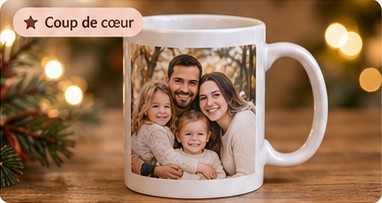
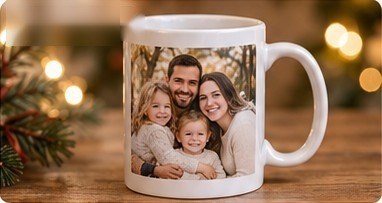
Boutique : aperçu réaliste sur de vraies photos de produits
Claude-Session: https://claude.ai/code/session_01Rh5XKVHsHEJX8tgAbBS3Nk

Changed region(s): [[0.0, 0.0, 0.3743, 0.2365]]

diff --git a/boutique/index.html b/boutique/index.html
@@ -22,13 +22,13 @@
 <link rel="preconnect" href="https://fonts.googleapis.com">
 <link rel="preconnect" href="https://fonts.gstatic.com" crossorigin>
 <link href="https://fonts.googleapis.com/css2?family=Great+Vibes&family=Sacramento&family=Cormorant+Garamond:ital,wght@0,500;0,600;1,500&family=Nunito:wght@400;600;700;800&display=swap" rel="stylesheet">
-<link rel="stylesheet" href="../style.css?v=1795450573">
+<link rel="stylesheet" href="../style.css?v=1795450859">
 </head>
 <body class="avec-barre">
 <a href="#contenu" class="sr-only">Aller au contenu</a>
 <header class="entete">
   <div class="barre">
-    <a href="../" class="logo"><img src="../images/logo-norelias.jpg?v=1795450573" alt="Norélias Photography" width="410" height="262"></a>
+    <a href="../" class="logo"><img src="../images/logo-norelias.jpg?v=1795450859" alt="Norélias Photography" width="410" height="262"></a>
     <nav class="nav" aria-label="Menu principal"><ul class="menu"><li><a href="../">Accueil</a></li><li><a href="../a-propos/">À propos</a></li><li><a href="../prestations/">Prestations</a></li><li><a href="../portfolio/">Portfolio</a></li><li><a href="../tarifs/">Tarifs</a></li><li><a href="../boutique/" aria-current="page">Boutique</a></li><li><a href="../reservation/">Réservation</a></li></ul></nav>
     <div class="reseaux"><a href="https://www.facebook.com/people/Norelia-Photography/61596525041862/" target="_blank" rel="noopener me" aria-label="Facebook de Norélias Photography"><svg viewBox="0 0 24 24" fill="currentColor" aria-hidden="true"><path d="M12 2a10 10 0 0 0-1.6 19.9v-7H7.9V12h2.5V9.8c0-2.5 1.5-3.9 3.8-3.9 1.1 0 2.2.2 2.2.2v2.5h-1.3c-1.2 0-1.6.8-1.6 1.6V12h2.8l-.4 2.9h-2.4v7A10 10 0 0 0 12 2z"/></svg></a><a href="https://www.instagram.com/norelias_photography/" target="_blank" rel="noopener me" aria-label="Instagram de Norélias Photography"><svg viewBox="0 0 24 24" fill="none" stroke="currentColor" stroke-width="2.2" aria-hidden="true"><rect x="3" y="3" width="18" height="18" rx="5"/><circle cx="12" cy="12" r="4"/><circle cx="17.5" cy="6.5" r="1.2" fill="currentColor" stroke="none"/></svg></a><a href="https://www.tiktok.com/" aria-label="TikTok"><svg viewBox="0 0 24 24" fill="currentColor" aria-hidden="true"><path d="M16.6 5.8A4.3 4.3 0 0 1 15.5 3h-3.1v12.4a2.6 2.6 0 1 1-1.8-2.5V9.7a5.7 5.7 0 1 0 4.9 5.7V9a7.3 7.3 0 0 0 4.3 1.4V7.3a4.3 4.3 0 0 1-3.2-1.5z"/></svg></a></div>
     <button class="burger" aria-label="Ouvrir le menu" aria-expanded="false"><svg viewBox="0 0 24 24" fill="none" stroke="currentColor" stroke-width="2"><path d="M3 6h18M3 12h18M3 18h18"/></svg></button>
@@ -36,11 +36,11 @@
 </header>
 <main id="contenu">
 <section class="page"><div class="interieur">
-<div class="hero-boutique" style="--fond:url('../images/boutique-hero.jpg?v=1795450573')"><div class="hero-txt"><h1>Boutique personnalisée <span class="coeur"><svg viewBox="190 172 30 34" fill="none" stroke="currentColor" stroke-width="1.3" stroke-linecap="round" stroke-linejoin="round" aria-hidden="true"><path d="M203.6 186.2C201.2 179 196 174.6 193.4 177.6C190.6 181.4 194.5 189.5 202 203.8C206.5 195.5 216.6 186.8 216.8 179C216.9 174.4 209.6 173.6 203.6 186.2"/></svg></span></h1><p>Transformez vos plus beaux souvenirs en objets uniques et durables.</p><ul><li>Personnalisation simple et rapide</li><li>Aperçu avant de commander</li><li>Paiement sécurisé</li><li>Livraison à domicile par la poste</li></ul></div></div>
+<div class="hero-boutique" style="--fond:url('../images/boutique-hero.jpg?v=1795450859')"><div class="hero-txt"><h1>Boutique personnalisée <span class="coeur"><svg viewBox="190 172 30 34" fill="none" stroke="currentColor" stroke-width="1.3" stroke-linecap="round" stroke-linejoin="round" aria-hidden="true"><path d="M203.6 186.2C201.2 179 196 174.6 193.4 177.6C190.6 181.4 194.5 189.5 202 203.8C206.5 195.5 216.6 186.8 216.8 179C216.9 174.4 209.6 173.6 203.6 186.2"/></svg></span></h1><p>Transformez vos plus beaux souvenirs en objets uniques et durables.</p><ul><li>Personnalisation simple et rapide</li><li>Aperçu avant de commander</li><li>Paiement sécurisé</li><li>Livraison à domicile par la poste</li></ul></div></div>
 <div id="msg-boutique" class="msg-boutique" hidden></div>
 <div class="comment-ca"><strong>Comment ça fonctionne ?</strong><ol><li><i><svg viewBox="0 0 24 24" fill="none" stroke="currentColor" stroke-width="1.6" stroke-linecap="round" stroke-linejoin="round"><path d="M3 4h2l2.4 11h10.2L20 8H6.5"/><circle cx="9" cy="19" r="1.4"/><circle cx="17" cy="19" r="1.4"/></svg></i><span>1</span>Choisissez votre produit</li><li class="chev">&rsaquo;</li><li><i><svg viewBox="0 0 24 24" fill="none" stroke="currentColor" stroke-width="1.6" stroke-linecap="round" stroke-linejoin="round"><rect x="3" y="4" width="18" height="16" rx="2"/><circle cx="9" cy="10" r="1.8"/><path d="M4 18l5-5 4 4 3-3 4 4"/></svg></i><span>2</span>Téléversez vos photos</li><li class="chev">&rsaquo;</li><li><i><svg viewBox="0 0 24 24" fill="none" stroke="currentColor" stroke-width="1.6" stroke-linecap="round" stroke-linejoin="round"><rect x="3" y="4" width="18" height="12" rx="1.5"/><path d="M9 20h6M12 16v4"/></svg></i><span>3</span>Personnalisez et voyez l'aperçu</li><li class="chev">&rsaquo;</li><li><i><svg viewBox="0 0 24 24" fill="none" stroke="currentColor" stroke-width="1.6" stroke-linecap="round" stroke-linejoin="round"><rect x="3" y="5" width="18" height="14" rx="2"/><path d="M3 10h18M7 15h4"/></svg></i><span>4</span>Payez en toute sécurité</li></ol></div>
 <div class="filtres" role="group" aria-label="Catégories"><button type="button" class="actif" data-filtre="tous">Tous les produits</button><button type="button" data-filtre="cadeaux"><i><svg viewBox="0 0 24 24" fill="none" stroke="currentColor" stroke-width="1.6" stroke-linecap="round" stroke-linejoin="round"><rect x="3" y="8" width="18" height="4" rx="1"/><path d="M5 12v8h14v-8M12 8v12M12 8c-2 0-4-1-4-3s3-2 4 3c1-5 4-5 4-3s-2 3-4 3"/></svg></i>Cadeaux photo</button><button type="button" data-filtre="decoration"><i><svg viewBox="0 0 24 24" fill="none" stroke="currentColor" stroke-width="1.6" stroke-linecap="round" stroke-linejoin="round"><path d="M4 11l8-7 8 7v9H4z"/><path d="M10 20v-6h4v6"/></svg></i>Décoration</button><button type="button" data-filtre="accessoires"><i><svg viewBox="0 0 24 24" fill="none" stroke="currentColor" stroke-width="1.6" stroke-linecap="round" stroke-linejoin="round"><path d="M3 12V4h8l10 10-8 8z"/><circle cx="7.5" cy="8.5" r="1.3"/></svg></i>Accessoires</button><button type="button" data-filtre="cartes"><i><svg viewBox="0 0 24 24" fill="none" stroke="currentColor" stroke-width="1.6" stroke-linecap="round" stroke-linejoin="round"><rect x="3" y="5" width="18" height="14" rx="2"/><path d="M3 10h18M7 15h4"/></svg></i>Cartes-cadeaux</button></div>
-<div class="grille-prod" id="grille-prod"><article class="prod" data-code="tasse" data-cat="cadeaux"><div class="prod-img"><span class="prod-badge">&#9733; Coup de cœur</span><img src="../images/boutique-tasse.jpg?v=1795450573" alt="Tasse photo" loading="lazy"></div><div class="prod-txt"><div class="prod-t"><h3>Tasse photo personnalisée</h3><button type="button" class="coeur-fav" aria-label="Ajouter aux favoris"><svg viewBox="0 0 24 24" fill="none" stroke="currentColor" stroke-width="1.6" stroke-linecap="round" stroke-linejoin="round"><path d="M12 20s-8-5-8-11a4.5 4.5 0 018-2.7A4.5 4.5 0 0120 9c0 6-8 11-8 11z"/></svg></button></div><p>Votre photo, chaque matin avec vous !</p><div class="prod-bas"><p class="prod-prix">dès 30 $</p><button type="button" class="bouton" data-choisir="tasse">Personnaliser <span class="fleche" aria-hidden="true">→</span></button></div></div></article><article class="prod" data-code="isotherme" data-cat="cadeaux"><div class="prod-img"><img src="../images/boutique-isotherme.jpg?v=1795450573" alt="Verre isotherme photo" loading="lazy"></div><div class="prod-txt"><div class="prod-t"><h3>Verre isotherme photo</h3><button type="button" class="coeur-fav" aria-label="Ajouter aux favoris"><svg viewBox="0 0 24 24" fill="none" stroke="currentColor" stroke-width="1.6" stroke-linecap="round" stroke-linejoin="round"><path d="M12 20s-8-5-8-11a4.5 4.5 0 018-2.7A4.5 4.5 0 0120 9c0 6-8 11-8 11z"/></svg></button></div><p>Gardez vos boissons à la bonne température, avec votre photo préférée.</p><div class="prod-bas"><p class="prod-prix">dès 59 $</p><button type="button" class="bouton" data-choisir="isotherme">Personnaliser <span class="fleche" aria-hidden="true">→</span></button></div></div></article><article class="prod" data-code="portecles" data-cat="accessoires"><div class="prod-img"><img src="../images/boutique-portecles.jpg?v=1795450573" alt="Porte-clés photo" loading="lazy"></div><div class="prod-txt"><div class="prod-t"><h3>Porte-clés photo</h3><button type="button" class="coeur-fav" aria-label="Ajouter aux favoris"><svg viewBox="0 0 24 24" fill="none" stroke="currentColor" stroke-width="1.6" stroke-linecap="round" stroke-linejoin="round"><path d="M12 20s-8-5-8-11a4.5 4.5 0 018-2.7A4.5 4.5 0 0120 9c0 6-8 11-8 11z"/></svg></button></div><p>Un petit souvenir qui vous suit partout !</p><div class="prod-bas"><p class="prod-prix">24 $</p><button type="button" class="bouton" data-choisir="portecles">Personnaliser <span class="fleche" aria-hidden="true">→</span></button></div></div></article><article class="prod" data-code="ornement" data-cat="decoration"><div class="prod-img"><img src="../images/boutique-ornement.jpg?v=1795450573" alt="Ornement de Noël photo" loading="lazy"></div><div class="prod-txt"><div class="prod-t"><h3>Ornement de Noël photo</h3><button type="button" class="coeur-fav" aria-label="Ajouter aux favoris"><svg viewBox="0 0 24 24" fill="none" stroke="currentColor" stroke-width="1.6" stroke-linecap="round" stroke-linejoin="round"><path d="M12 20s-8-5-8-11a4.5 4.5 0 018-2.7A4.5 4.5 0 0120 9c0 6-8 11-8 11z"/></svg></button></div><p>Personnalisez votre sapin avec un souvenir unique.</p><div class="prod-bas"><p class="prod-prix">28 $</p><button type="button" class="bouton" data-choisir="ornement">Personnaliser <span class="fleche" aria-hidden="true">→</span></button></div></div></article><article class="prod" data-cat="cartes"><div class="prod-img"><img src="../images/boutique-carte.jpg?v=1795450573" alt="Carte-cadeau" loading="lazy"></div><div class="prod-txt"><div class="prod-t"><h3>Carte-cadeau</h3><button type="button" class="coeur-fav" aria-label="Ajouter aux favoris"><svg viewBox="0 0 24 24" fill="none" stroke="currentColor" stroke-width="1.6" stroke-linecap="round" stroke-linejoin="round"><path d="M12 20s-8-5-8-11a4.5 4.5 0 018-2.7A4.5 4.5 0 0120 9c0 6-8 11-8 11z"/></svg></button></div><p>Offrez une séance photo ou un produit personnalisé, du montant de votre choix.</p><div class="prod-bas"><p class="prod-prix">Dès 100 $</p><a class="bouton" href="../cartes-cadeaux/">Offrir une carte <span class="fleche" aria-hidden="true">→</span></a></div></div></article><aside class="apercu-vignette"><h3><i><svg viewBox="0 0 24 24" fill="none" stroke="currentColor" stroke-width="1.6" stroke-linecap="round" stroke-linejoin="round"><path d="M2 12s4-7 10-7 10 7 10 7-4 7-10 7S2 12 2 12z"/><circle cx="12" cy="12" r="3"/></svg></i>Aperçu en temps réel</h3><img src="../images/boutique-apercu.jpg?v=1795450573" alt="Aperçu d'une tasse personnalisée" loading="lazy"><p>Voyez le résultat avant de commander !</p></aside></div>
+<div class="grille-prod" id="grille-prod"><article class="prod" data-code="tasse" data-cat="cadeaux"><div class="prod-img"><span class="prod-badge">&#9733; Coup de cœur</span><img src="../images/boutique-tasse.jpg?v=1795450859" alt="Tasse photo" loading="lazy"></div><div class="prod-txt"><div class="prod-t"><h3>Tasse photo personnalisée</h3><button type="button" class="coeur-fav" aria-label="Ajouter aux favoris"><svg viewBox="0 0 24 24" fill="none" stroke="currentColor" stroke-width="1.6" stroke-linecap="round" stroke-linejoin="round"><path d="M12 20s-8-5-8-11a4.5 4.5 0 018-2.7A4.5 4.5 0 0120 9c0 6-8 11-8 11z"/></svg></button></div><p>Votre photo, chaque matin avec vous !</p><div class="prod-bas"><p class="prod-prix">dès 30 $</p><button type="button" class="bouton" data-choisir="tasse">Personnaliser <span class="fleche" aria-hidden="true">→</span></button></div></div></article><article class="prod" data-code="isotherme" data-cat="cadeaux"><div class="prod-img"><img src="../images/boutique-isotherme.jpg?v=1795450859" alt="Verre isotherme photo" loading="lazy"></div><div class="prod-txt"><div class="prod-t"><h3>Verre isotherme photo</h3><button type="button" class="coeur-fav" aria-label="Ajouter aux favoris"><svg viewBox="0 0 24 24" fill="none" stroke="currentColor" stroke-width="1.6" stroke-linecap="round" stroke-linejoin="round"><path d="M12 20s-8-5-8-11a4.5 4.5 0 018-2.7A4.5 4.5 0 0120 9c0 6-8 11-8 11z"/></svg></button></div><p>Gardez vos boissons à la bonne température, avec votre photo préférée.</p><div class="prod-bas"><p class="prod-prix">dès 59 $</p><button type="button" class="bouton" data-choisir="isotherme">Personnaliser <span class="fleche" aria-hidden="true">→</span></button></div></div></article><article class="prod" data-code="portecles" data-cat="accessoires"><div class="prod-img"><img src="../images/boutique-portecles.jpg?v=1795450859" alt="Porte-clés photo" loading="lazy"></div><div class="prod-txt"><div class="prod-t"><h3>Porte-clés photo</h3><button type="button" class="coeur-fav" aria-label="Ajouter aux favoris"><svg viewBox="0 0 24 24" fill="none" stroke="currentColor" stroke-width="1.6" stroke-linecap="round" stroke-linejoin="round"><path d="M12 20s-8-5-8-11a4.5 4.5 0 018-2.7A4.5 4.5 0 0120 9c0 6-8 11-8 11z"/></svg></button></div><p>Un petit souvenir qui vous suit partout !</p><div class="prod-bas"><p class="prod-prix">24 $</p><button type="button" class="bouton" data-choisir="portecles">Personnaliser <span class="fleche" aria-hidden="true">→</span></button></div></div></article><article class="prod" data-code="ornement" data-cat="decoration"><div class="prod-img"><img src="../images/boutique-ornement.jpg?v=1795450859" alt="Ornement de Noël photo" loading="lazy"></div><div class="prod-txt"><div class="prod-t"><h3>Ornement de Noël photo</h3><button type="button" class="coeur-fav" aria-label="Ajouter aux favoris"><svg viewBox="0 0 24 24" fill="none" stroke="currentColor" stroke-width="1.6" stroke-linecap="round" stroke-linejoin="round"><path d="M12 20s-8-5-8-11a4.5 4.5 0 018-2.7A4.5 4.5 0 0120 9c0 6-8 11-8 11z"/></svg></button></div><p>Personnalisez votre sapin avec un souvenir unique.</p><div class="prod-bas"><p class="prod-prix">28 $</p><button type="button" class="bouton" data-choisir="ornement">Personnaliser <span class="fleche" aria-hidden="true">→</span></button></div></div></article><article class="prod" data-cat="cartes"><div class="prod-img"><img src="../images/boutique-carte.jpg?v=1795450859" alt="Carte-cadeau" loading="lazy"></div><div class="prod-txt"><div class="prod-t"><h3>Carte-cadeau</h3><button type="button" class="coeur-fav" aria-label="Ajouter aux favoris"><svg viewBox="0 0 24 24" fill="none" stroke="currentColor" stroke-width="1.6" stroke-linecap="round" stroke-linejoin="round"><path d="M12 20s-8-5-8-11a4.5 4.5 0 018-2.7A4.5 4.5 0 0120 9c0 6-8 11-8 11z"/></svg></button></div><p>Offrez une séance photo ou un produit personnalisé, du montant de votre choix.</p><div class="prod-bas"><p class="prod-prix">Dès 100 $</p><a class="bouton" href="../cartes-cadeaux/">Offrir une carte <span class="fleche" aria-hidden="true">→</span></a></div></div></article><aside class="apercu-vignette"><h3><i><svg viewBox="0 0 24 24" fill="none" stroke="currentColor" stroke-width="1.6" stroke-linecap="round" stroke-linejoin="round"><path d="M2 12s4-7 10-7 10 7 10 7-4 7-10 7S2 12 2 12z"/><circle cx="12" cy="12" r="3"/></svg></i>Aperçu en temps réel</h3><img src="../images/boutique-apercu.jpg?v=1795450859" alt="Aperçu d'une tasse personnalisée" loading="lazy"><p>Voyez le résultat avant de commander !</p></aside></div>
 <div class="rassure"><div><i><svg viewBox="0 0 24 24" fill="none" stroke="currentColor" stroke-width="1.5" stroke-linecap="round" stroke-linejoin="round"><path d="M12 3l8 3v6c0 5-3.5 8-8 9-4.5-1-8-4-8-9V6z"/><path d="M8.5 12l2.5 2.5 4.5-5"/></svg></i><p><strong>Paiement 100 % sécurisé</strong><span>Vos informations sont protégées.</span></p></div><div><i><svg viewBox="0 0 24 24" fill="none" stroke="currentColor" stroke-width="1.5" stroke-linecap="round" stroke-linejoin="round"><path d="M2 6h11v10H2zM13 9h4l4 4v3h-8"/><circle cx="7" cy="17.5" r="1.7"/><circle cx="17" cy="17.5" r="1.7"/></svg></i><p><strong>Livraison par la poste</strong><span>Directement à votre porte.</span></p></div><div><i><svg viewBox="0 0 24 24" fill="none" stroke="currentColor" stroke-width="1.5" stroke-linecap="round" stroke-linejoin="round"><path d="M4 14v-2a8 8 0 0116 0v2"/><rect x="3" y="14" width="4" height="6" rx="1.5"/><rect x="17" y="14" width="4" height="6" rx="1.5"/><path d="M19 20c0 1.5-2 2-5 2"/></svg></i><p><strong>Besoin d'aide ?</strong><span>Écrivez-nous, nous sommes là pour vous !</span></p></div></div>
 <h2 class="boutique-titre" id="commande-titre">Personnaliser mon objet</h2>
 <form id="form-boutique" class="form-boutique" novalidate data-produits="{&quot;tasse&quot;: {&quot;nom&quot;: &quot;Tasse photo&quot;, &quot;v&quot;: {&quot;11oz&quot;: [&quot;11 oz (325 ml)&quot;, 30], &quot;15oz&quot;: [&quot;15 oz (440 ml)&quot;, 34]}}, &quot;isotherme&quot;: {&quot;nom&quot;: &quot;Verre isotherme photo&quot;, &quot;v&quot;: {&quot;20oz&quot;: [&quot;20 oz (600 ml)&quot;, 59], &quot;30oz&quot;: [&quot;30 oz (890 ml)&quot;, 65]}}, &quot;portecles&quot;: {&quot;nom&quot;: &quot;Porte-clés photo&quot;, &quot;v&quot;: {&quot;standard&quot;: [&quot;Format standard&quot;, 24]}}, &quot;ornement&quot;: {&quot;nom&quot;: &quot;Ornement de Noël photo&quot;, &quot;v&quot;: {&quot;standard&quot;: [&quot;Format rond&quot;, 28]}}}" data-livraison="12">
@@ -79,13 +79,13 @@
 </main>
 <footer class="pied">
   <div class="barre">
-    <a class="marque" href="../"><img src="../images/logo-pied.png?v=1795450573" alt="Norélias Photography" width="200" height="128" loading="lazy"></a>
+    <a class="marque" href="../"><img src="../images/logo-pied.png?v=1795450859" alt="Norélias Photography" width="200" height="128" loading="lazy"></a>
     <nav aria-label="Liens du pied de page"><a href="../">Accueil</a><span>·</span><a href="../prestations/">Prestations</a><span>·</span><a href="../tarifs/">Tarifs</a><span>·</span><a href="../boutique/">Boutique</a><span>·</span><a href="../reservation/">Réservation</a><span>·</span><a href="../faq/">Questions fréquentes</a><span>·</span><a href="../cartes-cadeaux/">Cartes-cadeaux</a><span>·</span><a href="../politique-reservation/">Politique de réservation</a><span>·</span><a href="../confidentialite/">Politique de confidentialité</a></nav>
     <div class="coord">Campbellton, N.-B. · <a href="tel:+15067870667">506-787-0667</a> · <a href="mailto:bonjour@norelias.ca">bonjour@norelias.ca</a></div>
   </div>
 </footer>
 <a class="barre-reserver" href="../reservation/">Réserver ma séance <span class="fleche" aria-hidden="true">→</span></a>
-<script src="../config.js?v=1795450573"></script>
-<script src="../script.js?v=1795450573"></script>
+<script src="../config.js?v=1795450859"></script>
+<script src="../script.js?v=1795450859"></script>
 </body>
 </html>

diff --git a/script.js b/script.js
@@ -519,35 +519,43 @@
     ctx.drawImage(im, (im.width - sw) / 2, (im.height - sh) / 2, sw, sh, x, y, w, h);
   }
   function rr(ctx, x, y, w, h, r) { ctx.beginPath(); ctx.moveTo(x + r, y); ctx.arcTo(x + w, y, x + w, y + h, r); ctx.arcTo(x + w, y + h, x, y + h, r); ctx.arcTo(x, y + h, x, y, r); ctx.arcTo(x, y, x + w, y, r); ctx.closePath(); }
-  function dessiner(cv, code, im, variante) {
-    var c = cv.getContext('2d'), W = cv.width, H = cv.height;
-    c.clearRect(0, 0, W, H); var bg = c.createLinearGradient(0, 0, W, H); bg.addColorStop(0, '#6e4a3a'); bg.addColorStop(.55, '#a77a62'); bg.addColorStop(1, '#e9cdbd'); c.fillStyle = bg; c.fillRect(0, 0, W, H);
-    [[.12, .2, 26], [.3, .1, 16], [.8, .18, 30], [.92, .6, 20], [.06, .75, 22], [.7, .9, 18]].forEach(function (b) { c.fillStyle = 'rgba(255,224,170,.28)'; c.beginPath(); c.arc(W * b[0], H * b[1], b[2] * W / 480, 0, 7); c.fill(); });
-    var ph = function (x, y, w, h) { if (im) cover(c, im, x, y, w, h); else { c.fillStyle = '#e3cbbf'; c.fillRect(x, y, w, h); c.fillStyle = '#fff'; c.font = '600 ' + Math.round(W / 24) + 'px Nunito,sans-serif'; c.textAlign = 'center'; c.fillText('Votre photo ici', x + w / 2, y + h / 2); } };
-    c.save();
-    if (code === 'tasse') {
-      var g = variante === '15oz' ? 1 : .9, w = W * .46 * g, h = H * .72 * g, x = W * .27, y = (H - h) / 2;
-      c.strokeStyle = '#fff'; c.lineWidth = W * .035; c.beginPath(); c.arc(x + w + w * .02, y + h * .5, h * .22, -1.2, 1.2); c.stroke();
-      c.shadowColor = 'rgba(0,0,0,.2)'; c.shadowBlur = 14; c.fillStyle = '#fff'; rr(c, x, y, w, h, 12); c.fill(); c.shadowBlur = 0;
-      rr(c, x + 8, y + 8, w - 16, h - 16, 8); c.clip(); ph(x + 8, y + 8, w - 16, h - 16);
-    } else if (code === 'isotherme') {
-      var g2 = variante === '30oz' ? 1 : .9, tw = W * .3 * g2, th = H * .88 * g2, tx = (W - tw) / 2, ty = (H - th) / 2 + 6;
-      c.shadowColor = 'rgba(0,0,0,.2)'; c.shadowBlur = 14; c.fillStyle = '#fff';
-      c.beginPath(); c.moveTo(tx, ty); c.lineTo(tx + tw, ty); c.lineTo(tx + tw * .88, ty + th); c.lineTo(tx + tw * .12, ty + th); c.closePath(); c.fill(); c.shadowBlur = 0;
-      c.save(); c.beginPath(); c.moveTo(tx + 3, ty + th * .12); c.lineTo(tx + tw - 3, ty + th * .12); c.lineTo(tx + tw * .88 - 3, ty + th - 6); c.lineTo(tx + tw * .12 + 3, ty + th - 6); c.closePath(); c.clip(); ph(tx, ty + th * .1, tw, th * .88); c.restore();
-      c.fillStyle = '#5c2f2b'; rr(c, tx - 4, ty - th * .06, tw + 8, th * .08, 6); c.fill();
-      c.strokeStyle = '#5c2f2b'; c.lineWidth = 5; c.beginPath(); c.moveTo(tx + tw * .62, ty - th * .06); c.lineTo(tx + tw * .85, ty - th * .22); c.stroke();
-    } else if (code === 'portecles') {
-      var kw = W * .34, kh = H * .62, kx = (W - kw) / 2, ky = H * .3;
-      c.strokeStyle = '#a98374'; c.lineWidth = 6; c.beginPath(); c.arc(W / 2, ky - 8, 28, 0, Math.PI * 2); c.stroke();
-      c.shadowColor = 'rgba(0,0,0,.2)'; c.shadowBlur = 12; c.fillStyle = '#fff'; rr(c, kx, ky, kw, kh, 16); c.fill(); c.shadowBlur = 0;
-      rr(c, kx + 8, ky + 8, kw - 16, kh - 16, 10); c.clip(); ph(kx + 8, ky + 8, kw - 16, kh - 16);
-    } else {
-      var cx = W / 2, cy = H * .56, R = Math.min(W, H) * .36;
-      c.strokeStyle = '#8a4f48'; c.lineWidth = 5; c.beginPath(); c.moveTo(cx, cy - R); c.lineTo(cx, H * .1); c.stroke();
-      c.fillStyle = '#c0392b'; c.beginPath(); c.arc(cx, H * .1, 10, 0, 7); c.fill();
-      c.shadowColor = 'rgba(0,0,0,.2)'; c.shadowBlur = 12; c.fillStyle = '#d9b36a'; c.beginPath(); c.arc(cx, cy, R + 7, 0, 7); c.fill(); c.shadowBlur = 0;
-      c.beginPath(); c.arc(cx, cy, R, 0, 7); c.clip(); ph(cx - R, cy - R, R * 2, R * 2);
+  // Aperçu réaliste : la photo de la cliente est placée sur une vraie photo du produit
+  var BASES = {
+    tasse: { src: 'images/boutique-tasse.jpg', zone: { x: 131, y: 46, w: 125, h: 135 }, ombre: true },
+    isotherme: { src: 'images/boutique-isotherme.jpg', zone: { x: 141, y: 50, w: 100, h: 138 }, ombre: true },
+    portecles: { src: 'images/boutique-portecles.jpg', quad: [[142, 68], [238, 85], [108, 172]], poly: [[143, 70], [236, 86], [219, 198], [110, 172]] },
+    ornement: { src: 'images/boutique-ornement.jpg', rond: { x: 198, y: 111, r: 63 } }
+  };
+  var racine = (document.querySelector('link[href*="style.css"]').getAttribute('href') || '').replace(/style\.css.*$/, '');
+  Object.keys(BASES).forEach(function (k) { var b = BASES[k]; b.img = new Image(); b.img.onload = function () { b.pret = true; if (window.__maj) window.__maj(); }; b.img.src = racine + b.src; });
+  function dessiner(cv, code, im) {
+    var b = BASES[code] || BASES.tasse; if (!b.pret) return;
+    var T = 4, bw = b.img.width - 2 * T, bh = b.img.height - 2 * T, k = 1.6;
+    cv.width = Math.round(bw * k); cv.height = Math.round(bh * k);
+    var c = cv.getContext('2d'); c.imageSmoothingQuality = 'high';
+    c.drawImage(b.img, T, T, bw, bh, 0, 0, cv.width, cv.height);
+    if (!im) return;
+    c.save(); c.scale(k, k); c.translate(-T, -T);
+    if (b.zone) {
+      var z = b.zone; c.beginPath(); c.rect(z.x, z.y, z.w, z.h); c.clip(); cover(c, im, z.x - 1, z.y - 1, z.w + 2, z.h + 2);
+      var g = c.createLinearGradient(z.x, 0, z.x + z.w, 0);
+      g.addColorStop(0, 'rgba(40,25,20,.38)'); g.addColorStop(.18, 'rgba(40,25,20,0)'); g.addColorStop(.62, 'rgba(255,255,255,.07)'); g.addColorStop(.85, 'rgba(40,25,20,0)'); g.addColorStop(1, 'rgba(40,25,20,.42)');
+      c.fillStyle = g; c.fillRect(z.x, z.y, z.w, z.h);
+      var v = c.createLinearGradient(0, z.y, 0, z.y + z.h); v.addColorStop(0, 'rgba(40,25,20,.12)'); v.addColorStop(.12, 'rgba(40,25,20,0)'); v.addColorStop(.9, 'rgba(40,25,20,0)'); v.addColorStop(1, 'rgba(40,25,20,.18)');
+      c.fillStyle = v; c.fillRect(z.x, z.y, z.w, z.h);
+    } else if (b.quad) {
+      var q = b.quad, P = b.poly;
+      c.beginPath(); c.moveTo(P[0][0], P[0][1]); for (var i = 1; i < P.length; i++) c.lineTo(P[i][0], P[i][1]); c.closePath(); c.clip();
+      var W = Math.hypot(q[1][0] - q[0][0], q[1][1] - q[0][1]) * 1.1, H = Math.hypot(q[2][0] - q[0][0], q[2][1] - q[0][1]) * 1.1;
+      var r = Math.max(W / im.width, H / im.height), sw = W / r, sh = H / r, sx = (im.width - sw) / 2, sy = (im.height - sh) / 2;
+      var ux = (q[1][0] - q[0][0]) / (W / 1.1), uy = (q[1][1] - q[0][1]) / (W / 1.1), vx = (q[2][0] - q[0][0]) / (H / 1.1), vy = (q[2][1] - q[0][1]) / (H / 1.1);
+      var ox = q[0][0] - ux * W * .05 - vx * H * .05, oy = q[0][1] - uy * W * .05 - vy * H * .05;
+      c.transform(ux * W / sw, uy * W / sw, vx * H / sh, vy * H / sh, ox, oy); c.drawImage(im, sx, sy, sw, sh, 0, 0, sw, sh);
+    } else if (b.rond) {
+      var o = b.rond; c.beginPath(); c.arc(o.x, o.y, o.r, 0, 7); c.clip(); cover(c, im, o.x - o.r, o.y - o.r, o.r * 2, o.r * 2);
+      var rg = c.createRadialGradient(o.x - o.r * .35, o.y - o.r * .45, o.r * .05, o.x, o.y, o.r);
+      rg.addColorStop(0, 'rgba(255,255,255,.35)'); rg.addColorStop(.35, 'rgba(255,255,255,.05)'); rg.addColorStop(.85, 'rgba(255,255,255,0)'); rg.addColorStop(1, 'rgba(255,255,255,.28)');
+      c.fillStyle = rg; c.fillRect(o.x - o.r, o.y - o.r, o.r * 2, o.r * 2);
     }
     c.restore();
   }
@@ -578,7 +586,7 @@
   var selP = $('b-produit'), selV = $('b-variante'), cvA = $('b-apercu');
   function maj() {
     var code = selP.value;
-    if (code) dessiner(cvA, code, img, selV.value); else dessiner(cvA, 'tasse', img, '11oz');
+    dessiner(cvA, code || 'tasse', img);
     var p = code && P[code], v = p && p.v[selV.value];
     $('b-r-prod').textContent = v ? p.nom + ' · ' + v[0] + ' : ' + v[1] + ' $' : '—';
     $('b-r-total').innerHTML = '<strong>' + (v ? (v[1] + LIV) + ' $' : '—') + '</strong>';
@@ -634,5 +642,5 @@
   var q = location.search, m = $('msg-boutique');
   if (/merci=1/.test(q)) { m.textContent = 'Merci ! Votre paiement est reçu. Un courriel de confirmation vous attend.'; m.hidden = false; }
   else if (/annule=1/.test(q)) { m.textContent = 'Le paiement a été annulé. Votre commande n\'a pas été complétée.'; m.hidden = false; }
-  maj();
+  window.__maj = maj; maj();
 })();
